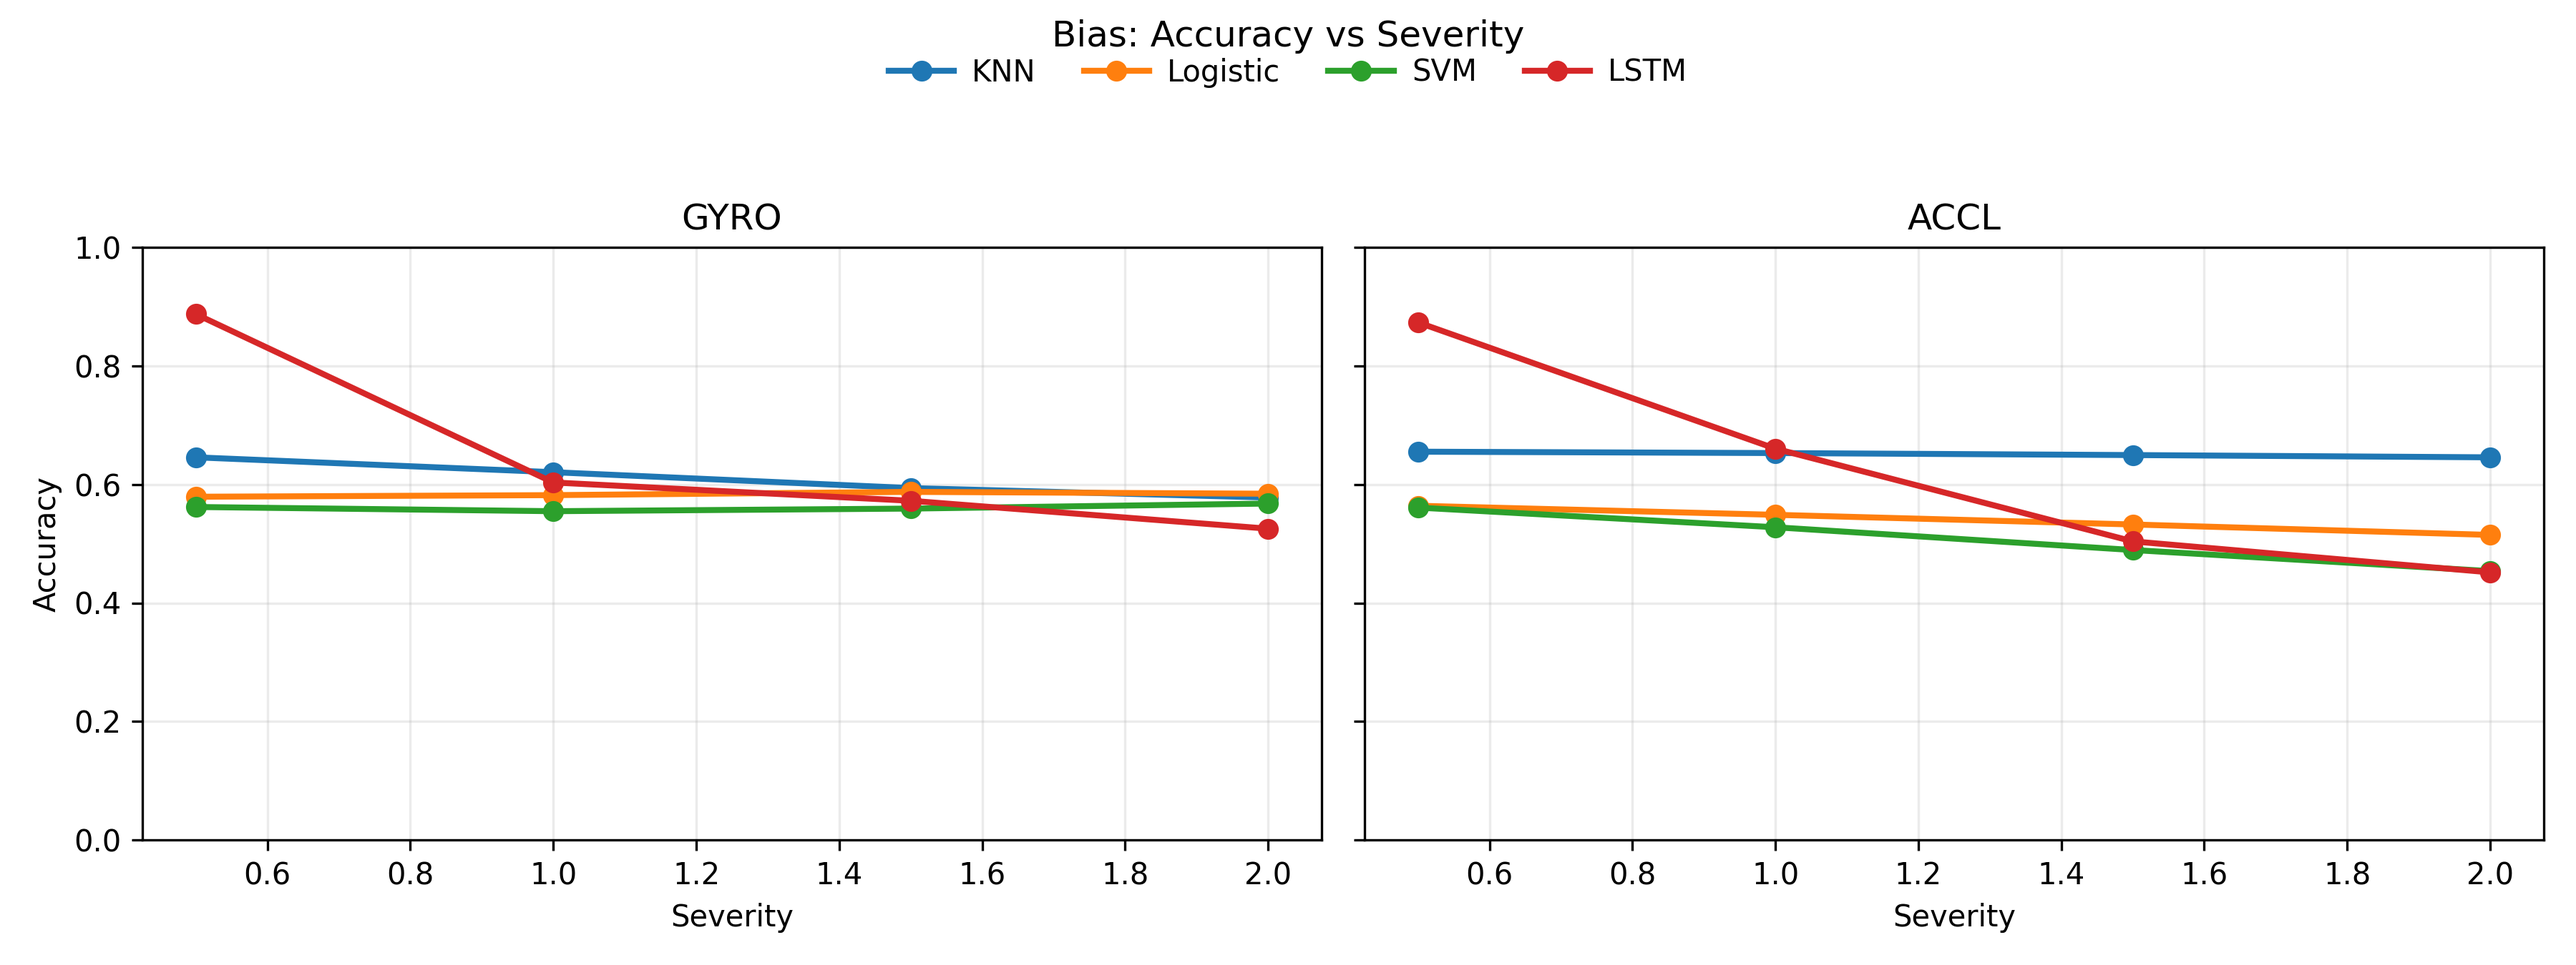
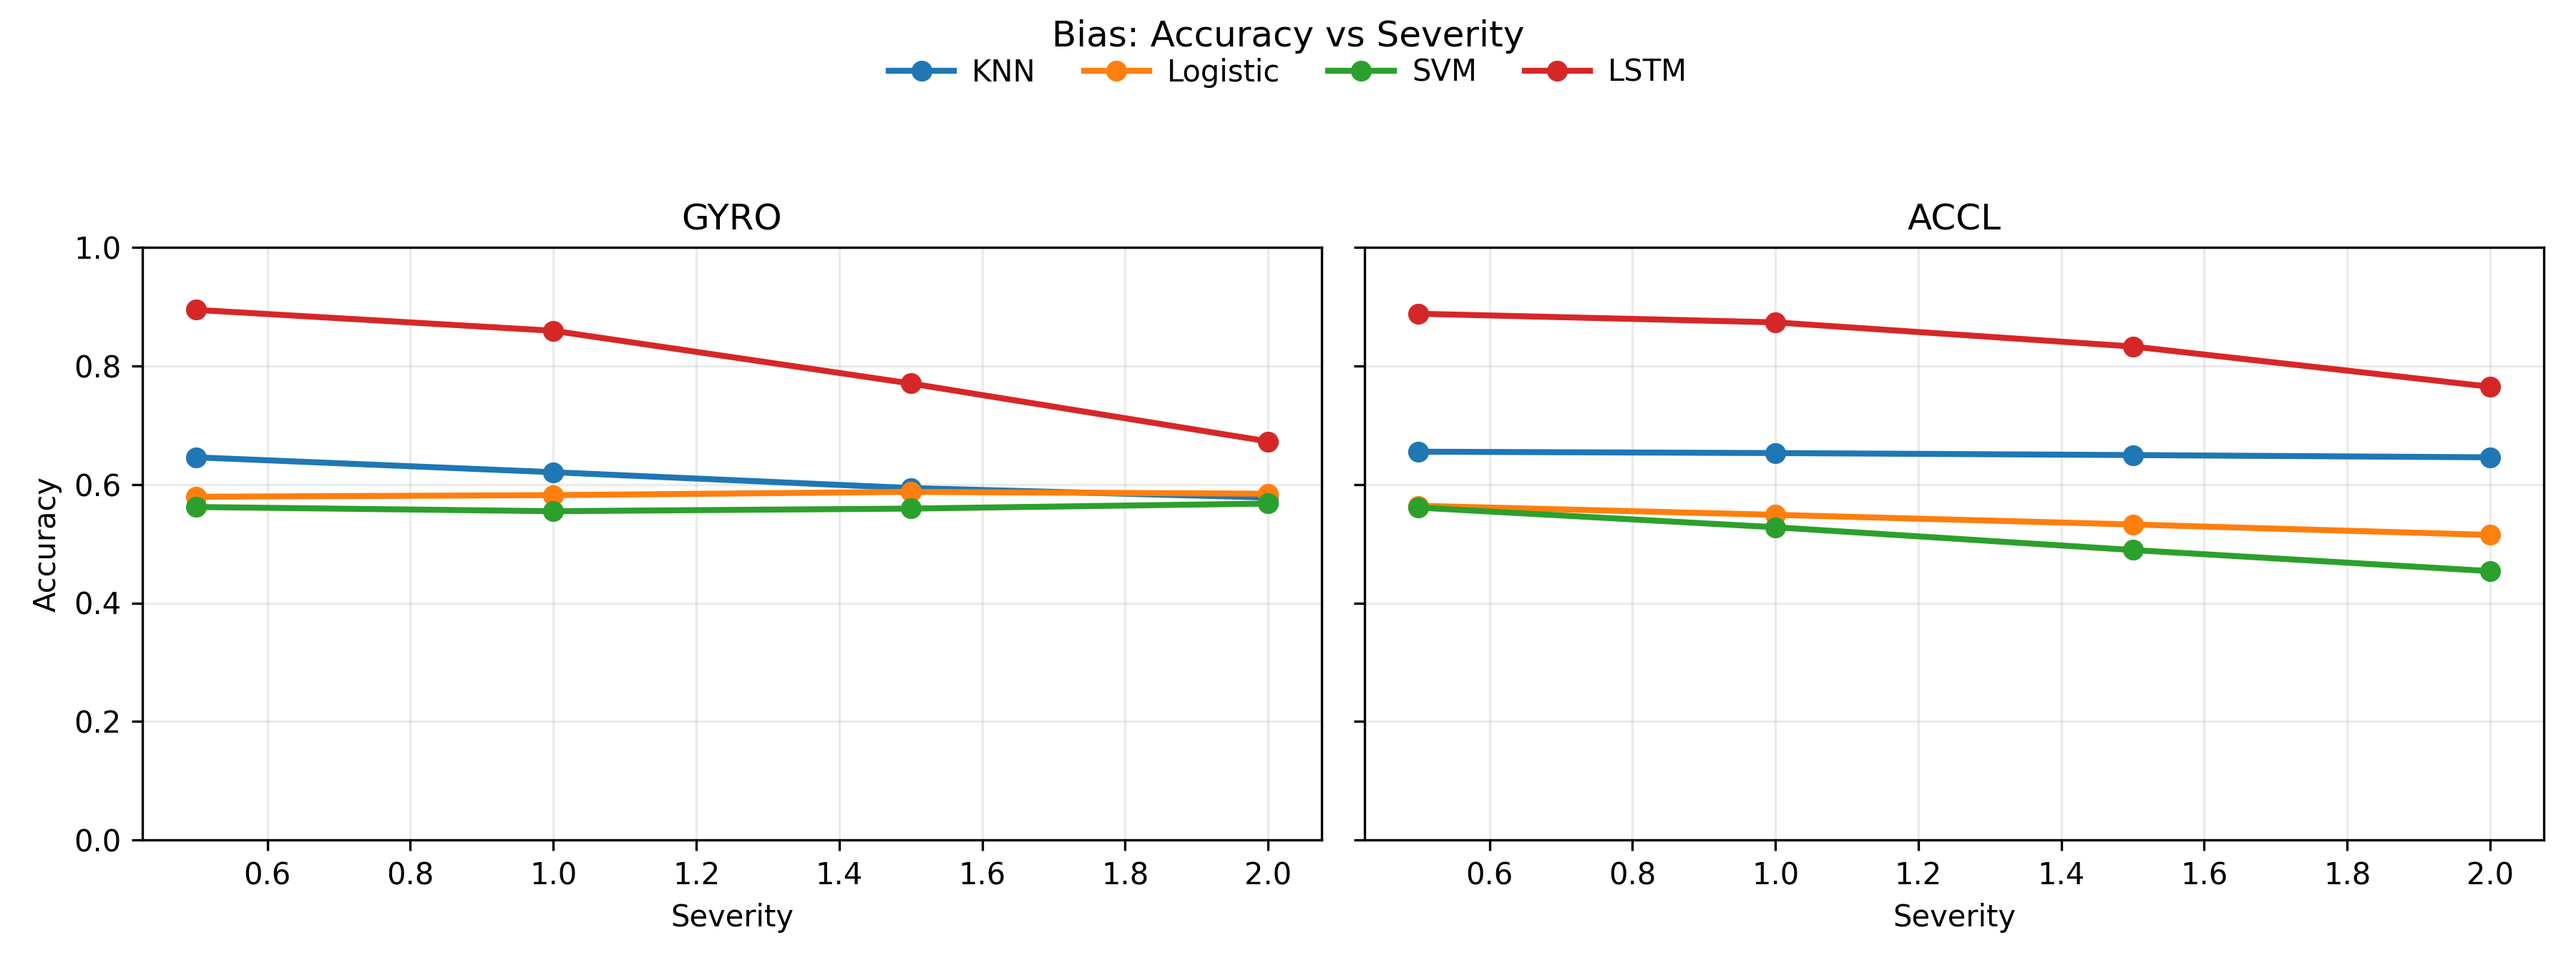
updated lstm to only train once when test data is corrupted

diff --git a/src/models/lstm.py b/src/models/lstm.py
@@ -212,6 +212,7 @@ def evaluate_lstm_with_corruption(
     corrupted_dataset: str = "test",
     epochs: int = 80,
     batch_size: int = 64,
+    pretrained_model: HAR_LSTM | None = None,
 ):
     X_train, y_train, X_test, y_test = load_raw_data()
 
@@ -227,17 +228,18 @@ def evaluate_lstm_with_corruption(
 
     criterion = nn.CrossEntropyLoss()
 
-    model = None
+    model = pretrained_model
     if corrupted_dataset == "test":
-        model = evaluate_lstm(
-            X_train,
-            y_train,
-            X_test,
-            y_test,
-            label=f"clean train baseline for {corruption_type}",
-            epochs=epochs,
-            batch_size=batch_size,
-        )
+        if model is None:
+            model = evaluate_lstm(
+                X_train,
+                y_train,
+                X_test,
+                y_test,
+                label="clean train baseline",
+                epochs=epochs,
+                batch_size=batch_size,
+            )
 
     for severity in severities:
         framework = CorruptionFramework(
@@ -276,16 +278,17 @@ def evaluate_lstm_with_corruption(
         _, test_acc, y_true, y_pred = evaluate_epoch(model, test_loader, criterion, device)
 
         macro_f1 = f1_score(y_true, y_pred, average="macro")
+        cm = confusion_matrix(y_true, y_pred)
 
         test_case = (
             f"{corruption_type} severity={severity}, "
             f"dataset={corrupted_dataset}, channels={channels_label}"
         )
-        log_test_results(test_case, None, test_acc, macro_f1)
+        log_test_results(test_case, None, test_acc, macro_f1, cm)
 
     print()
 
-def sweep():
+def sweep(baseline_model: HAR_LSTM | None = None):
     channels = [GYRO, ACCL]
     corruption = {"dropout": [0.1, 0.2, 0.3, 0.5],
                   "drift": [0.5, 1.0, 2.0, 4.0, 8.0],
@@ -294,7 +297,7 @@ def sweep():
                   "gain": [0.25, 0.5, 0.75, 0.9, 1.1, 1.25, 1.5, 2.0],
                   "resolution": [1, 2, 3, 4]
                 }
-    corrupted_datasets = ['train', 'test', 'both']
+    corrupted_datasets = ['test', 'train', 'both']
 
     for corrupted_dataset in corrupted_datasets:
         print(f"\n===== Corrupt dataset mode: {corrupted_dataset} =====")
@@ -306,6 +309,7 @@ def sweep():
                     channels=channel,
                     severities=severities,
                     corrupted_dataset=corrupted_dataset,
+                    pretrained_model=baseline_model if corrupted_dataset == "test" else None,
                 )
 
     print()
@@ -326,7 +330,7 @@ def main():
     )
 
     # Full sweep across train/test/both corruption modes.
-    sweep()
+    sweep(baseline_model=baseline_model)
 
 if __name__ == "__main__":
     main()
